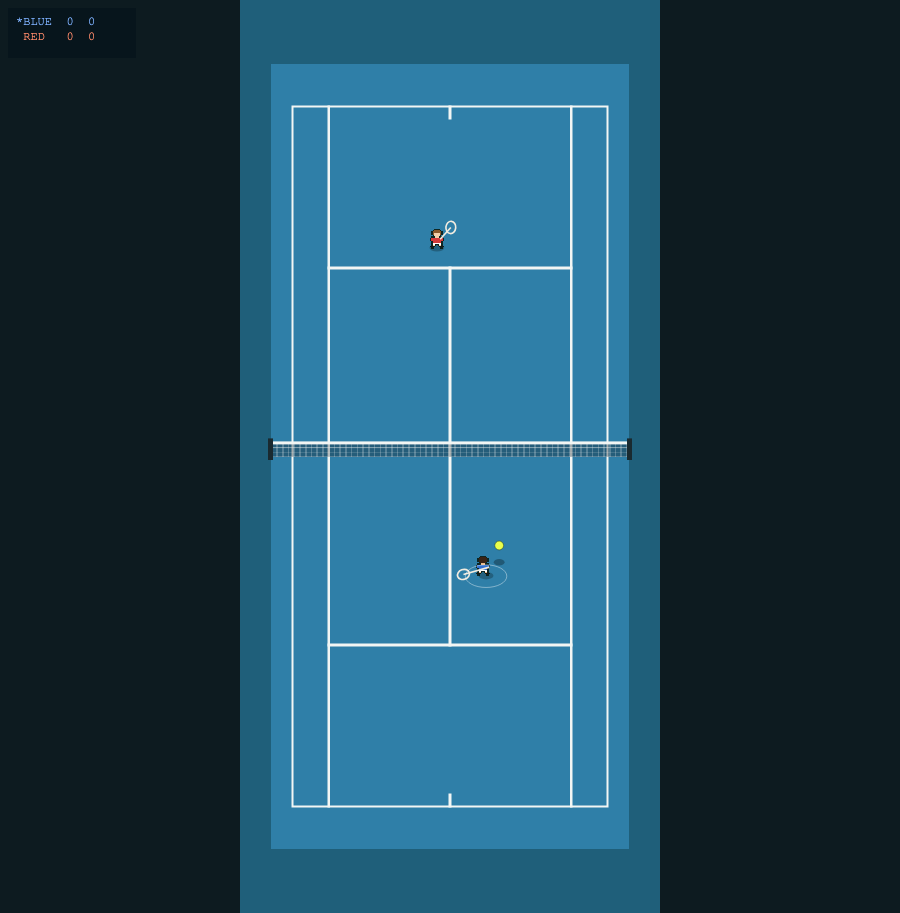
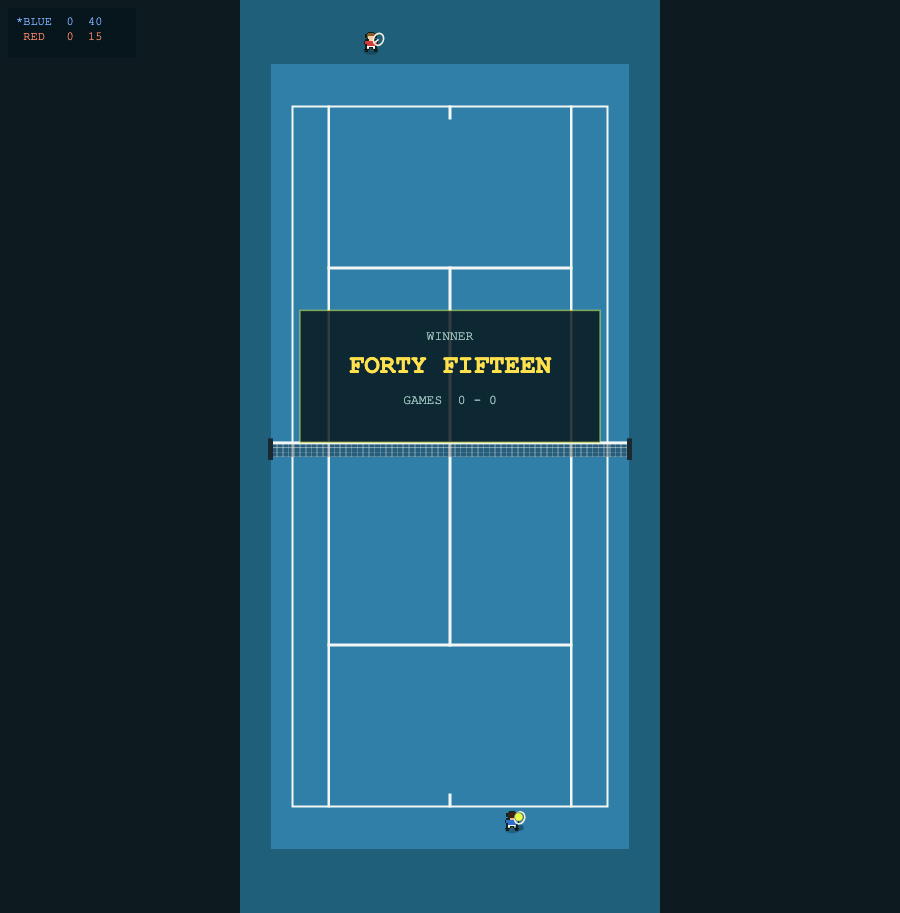
Stand them where the rules do, and put the score in the middle
Two players in the right places say which way a serve is going without a
word on screen, and they were not in them. The server was placed *inside*
his own baseline, which looks like a man serving from the service line, and
the receiver's side was inverted - he waited on the wrong side of the court
for every serve of the match. Both are taken from the service box itself
now rather than worked out a second time, and the box is lit up while the
server gets ready.

The score goes up in the middle of the screen while the point is dead, in
the words the umpire uses: the call, the reason the point ended, and the
games. The corner panel is for glancing at mid-rally; this is the thing you
want between points.

Steering is gentler again and, more to the point, gradual. It comes from
how long you hold a direction rather than which of eight you pushed - the
aim is the average of the direction held through the wind-up, and aftertouch
bends by the tick: a quarter of a second is a nudge, a full second walks the
ball across half the court. Winding up also shortens your stride now,
because steering and running are the same stick and a player asking for an
angle was walking off the ball while he asked.

Fixing the receiver's position broke the difficulty ladder, and chasing that
turned up something worse: the CPU swung the instant the ball came within
reach, taking it high and early, so a *shorter* reach made a level stronger.
[…]

diff --git a/src/render/renderer.js b/src/render/renderer.js
@@ -11,6 +11,7 @@ import {
   BALL_R, CHARGE_MAX, COURT, PLAYER_R, PLAYER_PRESETS, POINT_NAMES, REACH, SKIN_TONES,
   SWING_COOLDOWN, WORLD_H, WORLD_W,
 } from '../constants.js';
+import { callScore, serviceBox } from '../game/state.js';
 import { drawCourt } from './court.js';
 import { STRIDE, facing, kitSprites } from './sprites.js';
 
@@ -65,13 +66,81 @@ export class Renderer {
     ctx.imageSmoothingEnabled = false;
     ctx.drawImage(this.court, this.offX, this.offY, WORLD_W * this.zoom, WORLD_H * this.zoom);
 
+    if (state.phase === 'serve') this.drawServiceBox(state);
     // The far player first, so the near one overlaps him at the net.
     const order = [...state.players].sort((a, b) => a.y - b.y);
     for (const p of order) this.drawPlayer(state, p);
     this.drawBall(state);
     this.drawScore(state);
-    if (state.message) this.drawMessage(state.message);
+    if (state.phase === 'point' || state.phase === 'over') this.drawPointCard(state);
+    else if (state.message) this.drawMessage(state.message);
     if (net) this.drawNetInfo(net);
+  }
+
+  /**
+   * The box this serve has to land in, lit up while he is getting ready.
+   *
+   * Which way a serve is going is a rule, not a guess - it alternates every
+   * point and crosses the court - but nothing on screen said so, and two players
+   * standing in the right places only tells you if you already knew the rule.
+   * It goes out the moment the ball is struck.
+   */
+  drawServiceBox(state) {
+    const box = serviceBox(state);
+    const a = this.toScreen(box.x0, box.y0);
+    const b = this.toScreen(box.x1, box.y1);
+    const ctx = this.ctx;
+    ctx.fillStyle = 'rgba(232, 255, 77, 0.09)';
+    ctx.fillRect(a.x, a.y, b.x - a.x, b.y - a.y);
+    ctx.strokeStyle = 'rgba(232, 255, 77, 0.45)';
+    ctx.lineWidth = Math.max(1, 1.5 * this.zoom);
+    ctx.strokeRect(a.x, a.y, b.x - a.x, b.y - a.y);
+  }
+
+  /**
+   * The score, in the middle of the screen, for as long as the point is over.
+   *
+   * The corner panel is for glancing at mid-rally; this is the thing you
+   * actually want between points, which is when tennis tells you where you are.
+   * The umpire says the same words at the same moment.
+   */
+  drawPointCard(state) {
+    const ctx = this.ctx;
+    const scale = Math.max(1, this.zoom);
+    const mid = this.canvas.width / 2;
+    const top = this.canvas.height * 0.34;
+
+    const call = state.phase === 'over'
+      ? state.message
+      : callScore(state).toUpperCase();
+    const games = `GAMES  ${state.games[0]} - ${state.games[1]}`;
+    const why = state.phase === 'over' ? '' : state.message;
+
+    const w = 300 * scale;
+    const h = (why ? 132 : 108) * scale;
+    ctx.fillStyle = 'rgba(6, 20, 26, 0.82)';
+    ctx.fillRect(mid - w / 2, top, w, h);
+    ctx.strokeStyle = 'rgba(232, 255, 77, 0.5)';
+    ctx.lineWidth = Math.max(1, 1.5 * scale);
+    ctx.strokeRect(mid - w / 2, top, w, h);
+
+    ctx.textAlign = 'center';
+    ctx.textBaseline = 'middle';
+    let y = top + 26 * scale;
+    if (why) {
+      ctx.font = `${13 * scale}px "Courier New", monospace`;
+      ctx.fillStyle = '#9fc7c0';
+      ctx.fillText(why, mid, y);
+      y += 30 * scale;
+    }
+    ctx.font = `bold ${26 * scale}px "Courier New", monospace`;
+    ctx.fillStyle = '#ffe14d';
+    ctx.fillText(call, mid, y);
+    y += 34 * scale;
+    ctx.font = `${13 * scale}px "Courier New", monospace`;
+    ctx.fillStyle = '#9fc7c0';
+    ctx.fillText(games, mid, y);
+    ctx.textAlign = 'left';
   }
 
   drawPlayer(state, p) {

diff --git a/src/game/sim.js b/src/game/sim.js
@@ -102,14 +102,30 @@ function humanIntent(state, i, mask) {
   if (fire && !wasFire) {
     p.charging = true;
     p.charge = 0;
+    p.aimX = 0;
+    p.aimY = 0;
+    p.aimTicks = 0;
   }
   if (p.charging) {
     p.charge = Math.min(p.charge + 1, CHARGE_MAX);
+    // Where the shot goes is the average of the direction you held while winding
+    // up, not the direction you happen to be holding at the moment of contact.
+    //
+    // This is where the fine control comes from. The stick has eight positions
+    // and nothing in between, so an instantaneous reading gives you three
+    // choices per side and no feel at all. Held for a quarter of the wind-up it
+    // is a quarter of the angle; held throughout it is all of it - and that is a
+    // dial you can learn.
+    p.aimX += dir.x;
+    p.aimY += dir.y;
+    p.aimTicks++;
     if (!fire) {
       p.charging = false;
       p.swing = Math.max(p.swing, SWING_WINDOW);
     }
   }
+  const held = Math.max(1, p.aimTicks || 0);
+  intent.aim = { x: (p.aimX || 0) / held, y: (p.aimY || 0) / held };
   intent.swinging = p.charging || p.swing > 0;
   intent.power = p.charge;
   return intent;
@@ -147,8 +163,13 @@ function tryHit(state, i, intent) {
   if (serving && !p.tossing) return;
   if (!serving && state.lastHitter === i && state.bounces === 0) return; // you cannot hit it twice
 
+  // A weaker opponent simply cannot stretch as far. Blunt, but it is the one
+  // handicap that cannot backfire: reaction time and running speed stopped
+  // mattering once the receiver stood in the right place, and taking pace off
+  // his shots made him *better*, because a slow ball is awkward to time.
+  const stretch = p.human ? REACH : REACH * (p.ai.reach ?? 1);
   const away = Math.hypot(b.x - p.x, b.y - p.y);
-  if (away > REACH || b.z > 150) return;
+  if (away > stretch || b.z > 150) return;
   // The ball has to be on your own side, unless you are reaching over to volley
   // one that has not landed yet.
   const mySide = p.dir > 0 ? b.y > COURT.cy : b.y < COURT.cy;
@@ -252,7 +273,7 @@ function aimPoint(state, i, aim, serving) {
   // holding a direction to reach the ball in the first place.
   const depth = 0.62 + (aim.y * -p.dir) * 0.18;
   return {
-    x: COURT.cx + aim.x * (COURT.right - COURT.cx) * 0.62,
+    x: COURT.cx + aim.x * (COURT.right - COURT.cx) * 0.45,
     y: COURT.cy + (far - COURT.cy) * clamp(depth, 0.32, 0.94),
   };
 }
@@ -264,7 +285,11 @@ function aimPoint(state, i, aim, serving) {
 function movePlayer(state, i, intent) {
   const p = state.players[i];
   const handicap = p.human ? 1 : p.ai.speed;
-  const speed = PLAYER_SPEED * handicap * (p.swing > 0 ? 0.55 : 1);
+  // Winding up shortens your stride as much as swinging does. Steering and
+  // running are the same stick, so without this a player who wants to angle the
+  // ball walks off it while he asks - and the fine control the angle is supposed
+  // to give him is unusable.
+  const speed = PLAYER_SPEED * handicap * (p.swing > 0 || p.charging ? 0.55 : 1);
   const l = len(intent.x, intent.y);
   if (l > 0.02) {
     p.faceX = intent.x / l;

diff --git a/src/game/ai.js b/src/game/ai.js
@@ -81,7 +81,7 @@ export function aiIntent(state, i) {
       // Out wide or down the middle, alternately, with the level's inaccuracy.
       const corner = (state.games[i] + state.points[i]) % 2 === 0 ? wide * 0.7 : -wide * 0.2;
       intent.swing = true;
-      intent.power = CHARGE_MAX * 0.85;
+      intent.power = CHARGE_MAX * clamp(skill.windup, 0.3, 1);
       intent.aim = {
         x: corner + randRange(state, -1, 1) * (skill.aimError / 95),
         y: randRange(state, -1, 1) * (skill.aimError / 260),
@@ -123,7 +123,14 @@ export function aiIntent(state, i) {
   const reachable = Math.hypot(b.x - p.x, b.y - p.y) < REACH * 0.8 && b.z < 130;
   const mySide = p.dir > 0 ? b.y > COURT.cy : b.y < COURT.cy;
   const arriving = coming && b.live && mySide && state.bounces < 2;
-  if (arriving && reachable && p.swing === 0 && p.cooldown === 0) {
+  // Wait for a ball worth hitting. Swinging the moment it comes within reach
+  // means taking it high and early, off balance, and the shot that comes out of
+  // that is poor - which produced a result that made no sense until it was
+  // looked at: giving a level a *shorter* reach made it stronger, because being
+  // unable to lunge forced it to let the ball come. So everyone lets it come:
+  // after the bounce, or low enough to be a volley worth playing.
+  const worthHitting = state.bounces >= 1 ? b.z < 95 : b.z < 55;
+  if (arriving && reachable && worthHitting && p.swing === 0 && p.cooldown === 0) {
     // Aim away from where the other player is standing.
     const them = state.players[1 - i];
     const side = them.x > COURT.cx ? -1 : 1;
@@ -134,7 +141,7 @@ export function aiIntent(state, i) {
     // spraying the ball out - which was the whole difference between the levels.
     const error = randRange(state, -1, 1) * (skill.aimError / 58);
     intent.swing = true;
-    intent.power = CHARGE_MAX * (0.55 + randRange(state, 0, 0.3));
+    intent.power = CHARGE_MAX * clamp(skill.windup - 0.15 + randRange(state, 0, 0.3), 0.1, 1);
     intent.aim = { x: side * 0.7 + error, y: -p.dir * 0.4 + error * 0.4 };
   }
   return intent;

diff --git a/src/game/state.js b/src/game/state.js
@@ -87,6 +87,10 @@ function makePlayer(index, human, dir, ai) {
     cooldown: 0,
     charge: 0,
     charging: false,
+    // The direction held while winding up, summed and averaged at contact.
+    aimX: 0,
+    aimY: 0,
+    aimTicks: 0,
     prevMask: 0,
     // A serve is a toss and then a hit; this counts down the time the ball is up.
     tossing: false,
@@ -133,14 +137,28 @@ export function setupServe(state) {
   const server = state.players[state.server];
   const receiver = state.players[1 - state.server];
   const right = servingRight(state);
-  const side = right ? 1 : -1;
+  const box = serviceBox(state);
 
-  server.x = COURT.cx + side * 70 * (server.dir > 0 ? 1 : -1);
-  server.y = ownBaseline(server) + server.dir * -26;
-  receiver.x = COURT.cx + side * 80 * (receiver.dir > 0 ? -1 : 1);
+  // Both of them stand where the rules put them, and between them they say which
+  // way this serve is going without a word on screen.
+  //
+  // The server is on his own right for an even point and his left for an odd
+  // one, which is what "deuce court" and "advantage court" mean, and he stands
+  // *behind* his baseline - he used to be placed inside it, which looked like a
+  // man about to serve from the service line.
+  const side = right ? 1 : -1;
+  server.x = COURT.cx + side * 76 * (server.dir > 0 ? 1 : -1);
+  server.y = ownBaseline(server) + server.dir * 26;
+
+  // The receiver stands in front of the box the ball has to land in, which is
+  // diagonally opposite. Taken from the box itself rather than worked out again:
+  // one of them was inverted, so the receiver waited on the wrong side of the
+  // court for every serve.
+  const boxMiddle = (box.x0 + box.x1) / 2;
+  receiver.x = boxMiddle + (boxMiddle - COURT.cx) * 0.3;
   // Well behind the baseline, which is where a returner stands and why a serve
   // is returnable at all.
-  receiver.y = ownBaseline(receiver) + receiver.dir * -70;
+  receiver.y = ownBaseline(receiver) + receiver.dir * 70;
 
   for (const p of state.players) {
     p.vx = 0;

diff --git a/src/constants.js b/src/constants.js
@@ -68,8 +68,8 @@ export const SWING_COOLDOWN = 8;
  * not fling it.
  */
 export const AFTERTOUCH_TICKS = 60; // one second
-export const AT_SIDE = 170;
-export const AT_LIFT = 100;
+export const AT_SIDE = 125;
+export const AT_LIFT = 80;
 
 /**
  * Winding up.
@@ -146,12 +146,12 @@ export const SKIN_TONES = [
  */
 export const AI_LEVELS = {
   easy: {
-    key: 'easy', label: 'EASY', reactTicks: 9, aimError: 90, speed: 0.86, swingEarly: 10,
+    key: 'easy', label: 'EASY', reactTicks: 9, aimError: 90, speed: 0.86, windup: 0.78, reach: 0.7,
   },
   normal: {
-    key: 'normal', label: 'NORMAL', reactTicks: 5, aimError: 45, speed: 0.94, swingEarly: 5,
+    key: 'normal', label: 'NORMAL', reactTicks: 5, aimError: 45, speed: 0.94, windup: 0.88, reach: 0.76,
   },
   hard: {
-    key: 'hard', label: 'HARD', reactTicks: 1, aimError: 26, speed: 1, swingEarly: 1,
+    key: 'hard', label: 'HARD', reactTicks: 1, aimError: 26, speed: 1, windup: 0.95, reach: 1,
   },
 };

diff --git a/src/render/court.js b/src/render/court.js
@@ -20,9 +20,16 @@ export function drawCourt(ctx) {
   ctx.fillStyle = SURROUND;
   ctx.fillRect(0, 0, WORLD_W, WORLD_H);
 
-  // The playing surface, doubles width, with a margin of run-off around it.
+  // The playing surface, doubles width, with a margin of run-off around it. The
+  // run-off behind the baselines is generous because that is where a returner
+  // actually stands - painted short, he appeared to be waiting off the court.
   ctx.fillStyle = SURFACE;
-  ctx.fillRect(COURT.left - ALLEY - 26, COURT.top - 52, (COURT.right - COURT.left) + (ALLEY + 26) * 2, (COURT.bottom - COURT.top) + 104);
+  ctx.fillRect(
+    COURT.left - ALLEY - 30,
+    COURT.top - 100,
+    (COURT.right - COURT.left) + (ALLEY + 30) * 2,
+    (COURT.bottom - COURT.top) + 200,
+  );
 
   ctx.strokeStyle = LINE;
   ctx.lineWidth = 3;

diff --git a/README.md b/README.md
@@ -36,7 +36,11 @@ packages to install.
 | Pause        | `Esc`           |                |
 
 - **Serving** is two presses: one throws the ball up, the second hits it. You
-  get two serves, and the second one is worth taking care over.
+  get two serves, and the second one is worth taking care over. Both players are
+  put where the rules put them - server behind his own baseline, on the right for
+  an even point and the left for an odd one, receiver in front of the box the
+  ball has to land in - and that box is lit up while you get ready, so which way
+  the serve is going is never a guess.
 - **Hold** the button to hit harder. Hold longer still and the ball goes up
   instead of through — a lob, for when your opponent is at the net.
 - **Start early.** Holding the button is winding up, not waiting to fire: the
@@ -54,7 +58,11 @@ packages to install.
   worth of precision in it was doing the judging for you.
 - **Steer while you swing** to place it: sideways sends it across the court,
   forward drives it deep, back drops it short. **Keep steering for a second after
-  contact** and the ball bends in the air. Aim alone cannot put the ball out -
+  contact** and the ball bends in the air. How far it bends is how *long* you
+  hold it, not which of eight directions you pushed: a quarter of a second is a
+  nudge, a full second walks the ball across half the court. That is where the
+  placement lives, and it is meant to be felt rather than aimed. Aim alone cannot
+  put the ball out -
   the stick moves you as well as aiming the shot, so the direction you are
   holding to reach the ball should not fling it past the sideline. Going for the
   lines takes aftertouch, which is a thing you choose to do.
@@ -69,7 +77,8 @@ packages to install.
 The rules are the real ones, because they are what makes tennis tennis: the ball
 has to land in, it may bounce once, a serve has to find the diagonal box, and the
 score runs fifteen, thirty, forty, deuce, advantage. A set is won by two clear
-games.
+games, and the score goes up in the middle of the screen after every point, in
+the words the umpire uses.
 
 ## How it plays
 
